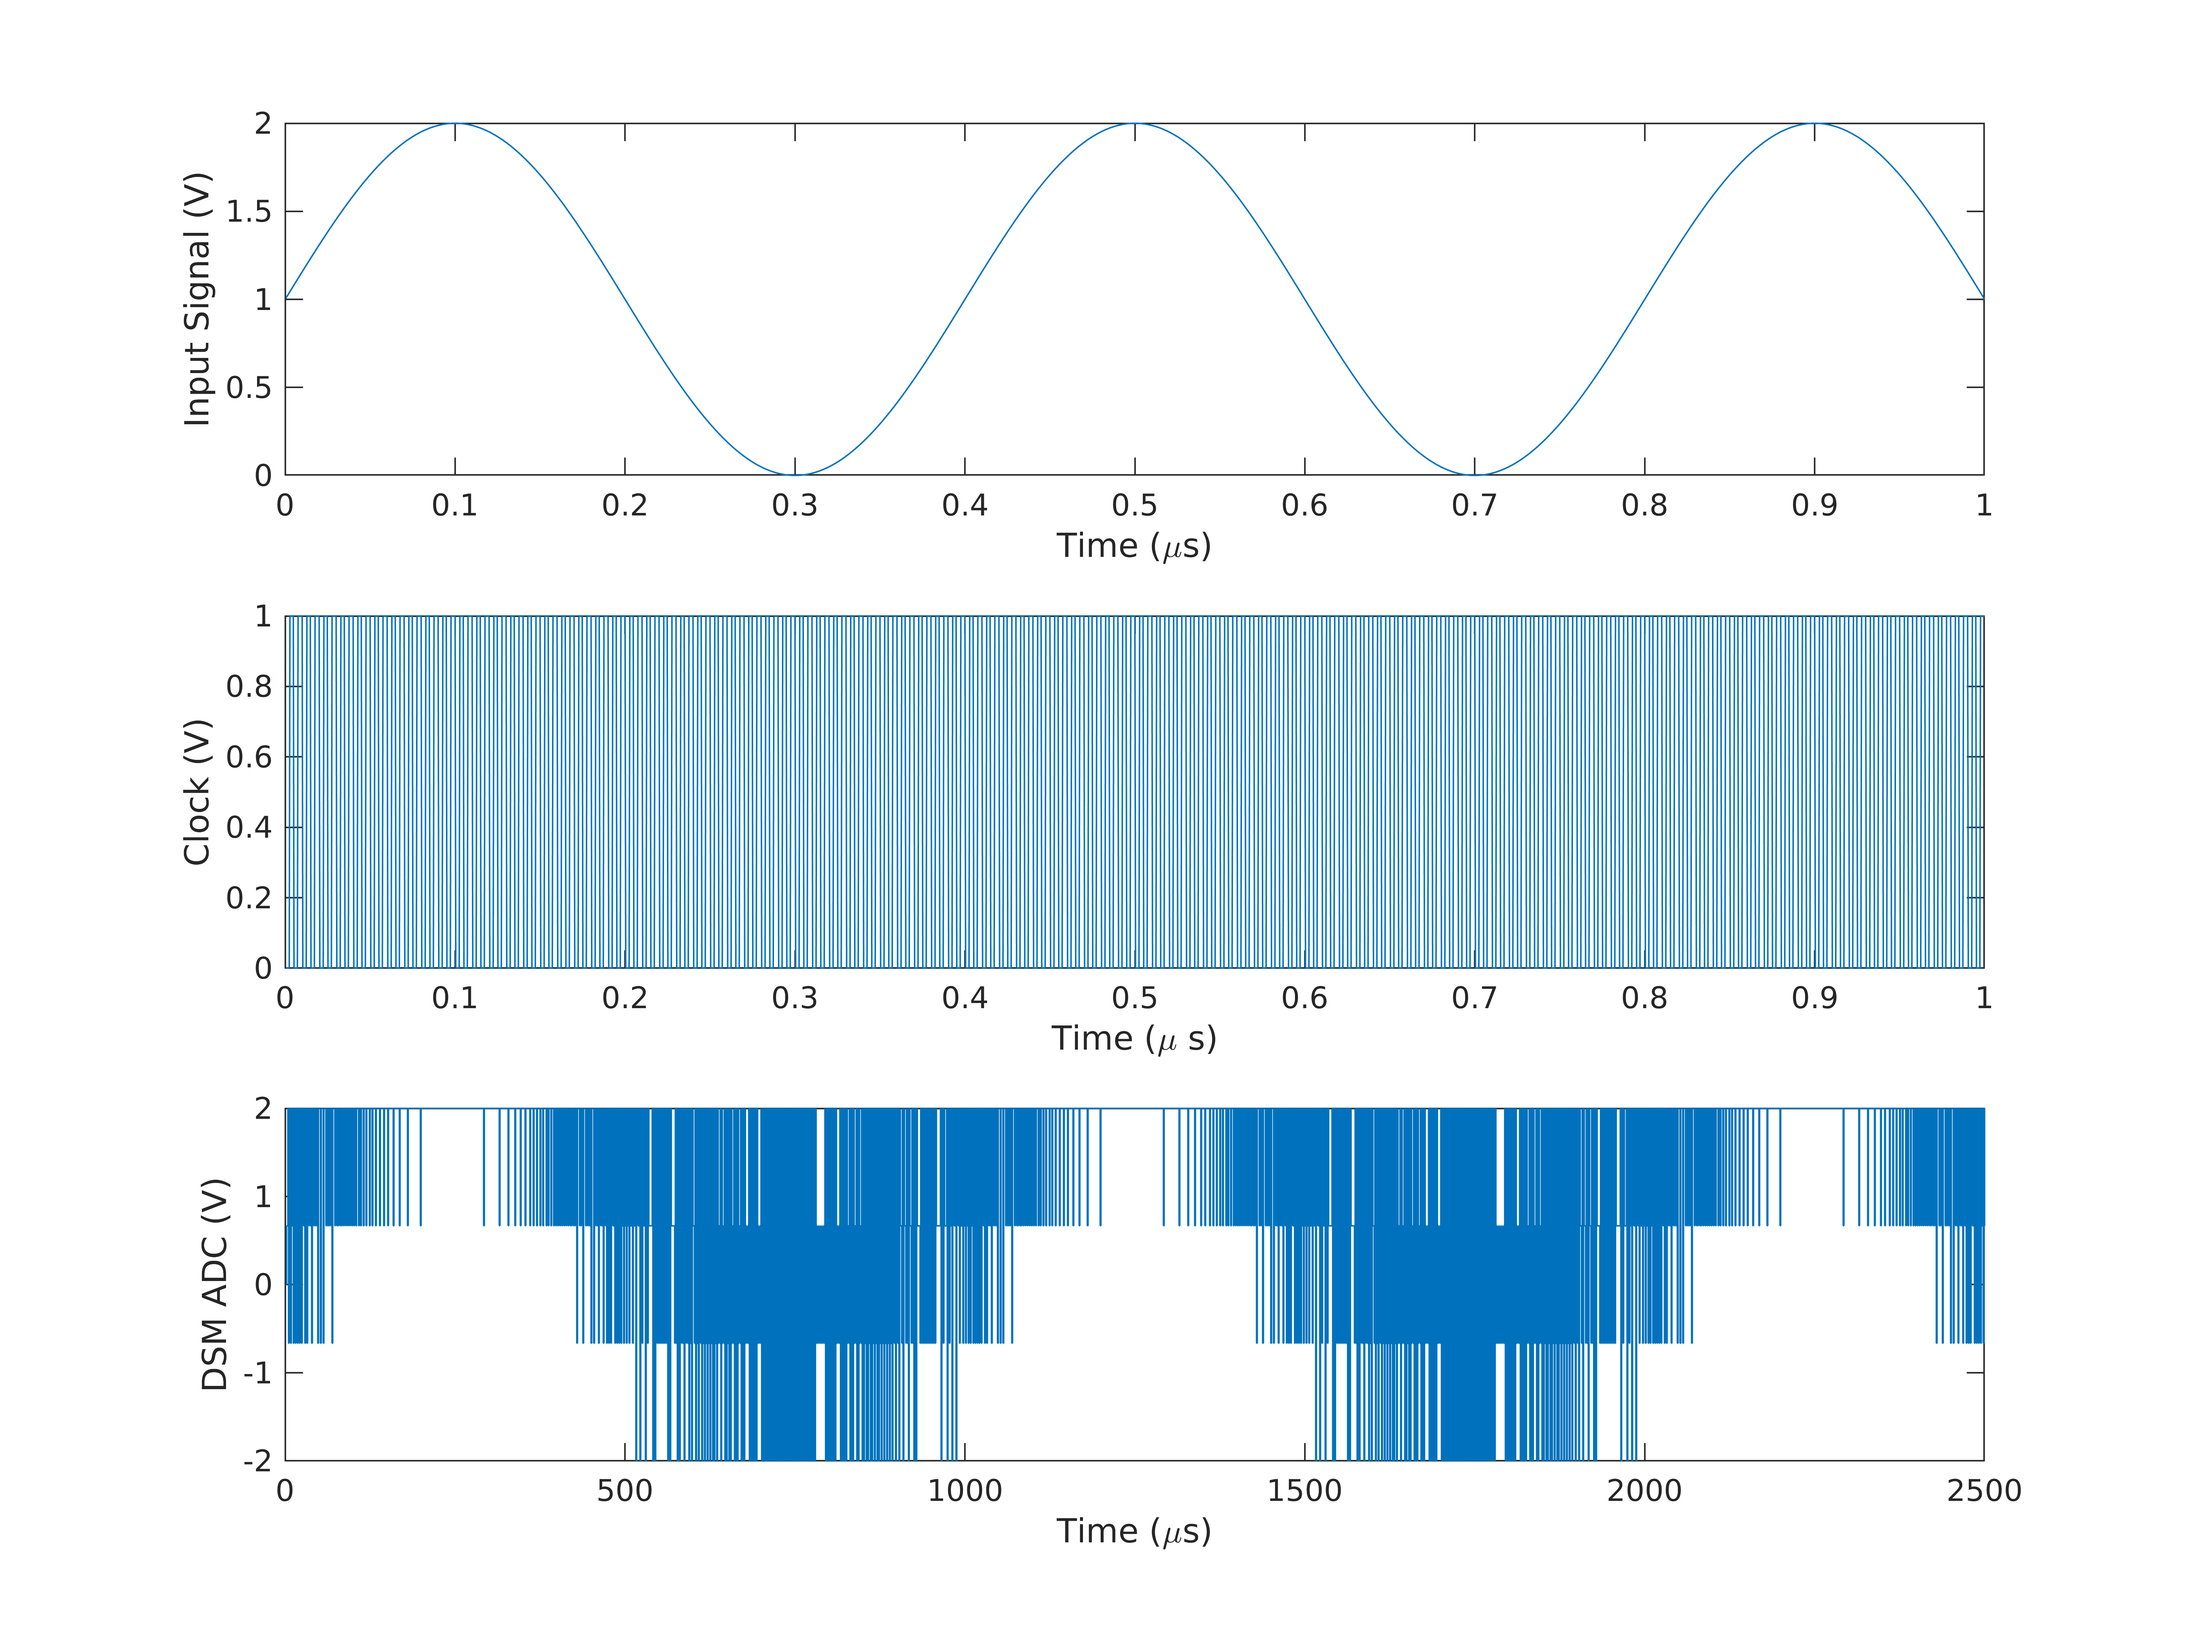
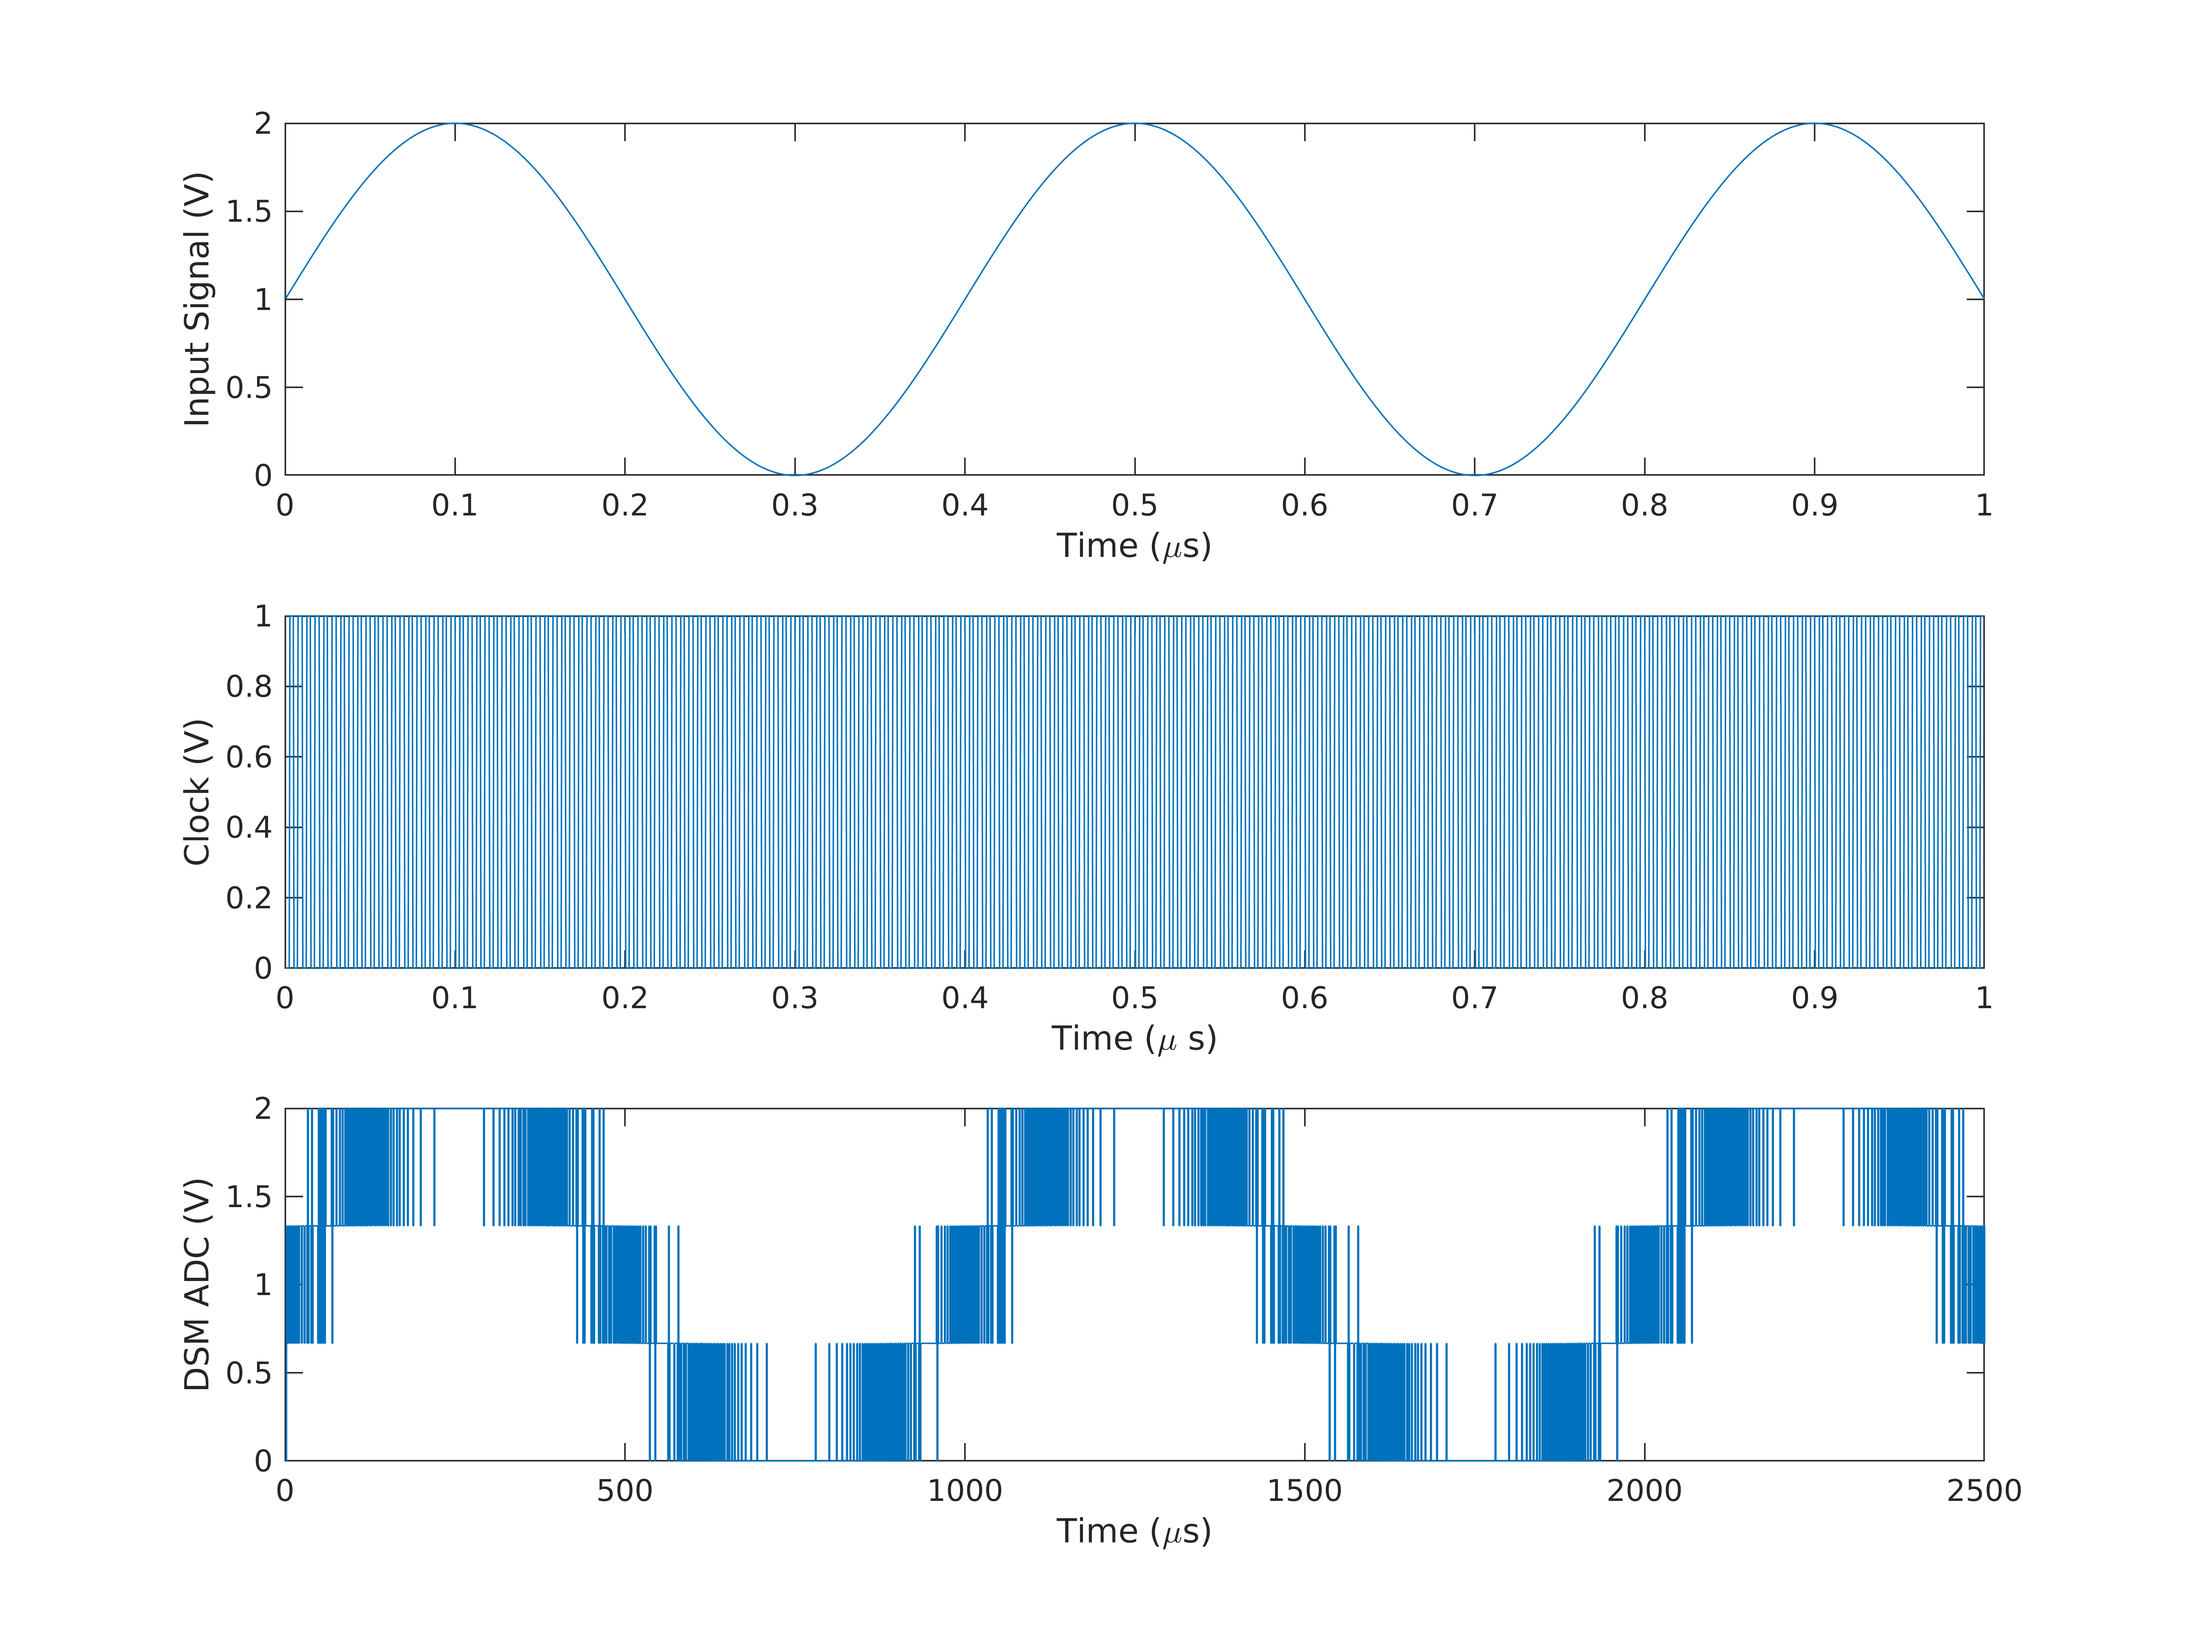
fixed digitizer

diff --git a/digitizer.m b/digitizer.m
@@ -1,10 +1,10 @@
 function [analog_val] = digitizer(digital_val)
     if digital_val == "00"
-        analog_val = -2;
+        analog_val = 0;
     elseif digital_val == "01"
-        analog_val = -2/3;
+        analog_val = 2/3;
     elseif digital_val == "10"
-        analog_val = +2/3;
+        analog_val = 4/3;
     else
         analog_val = 2;
     end
